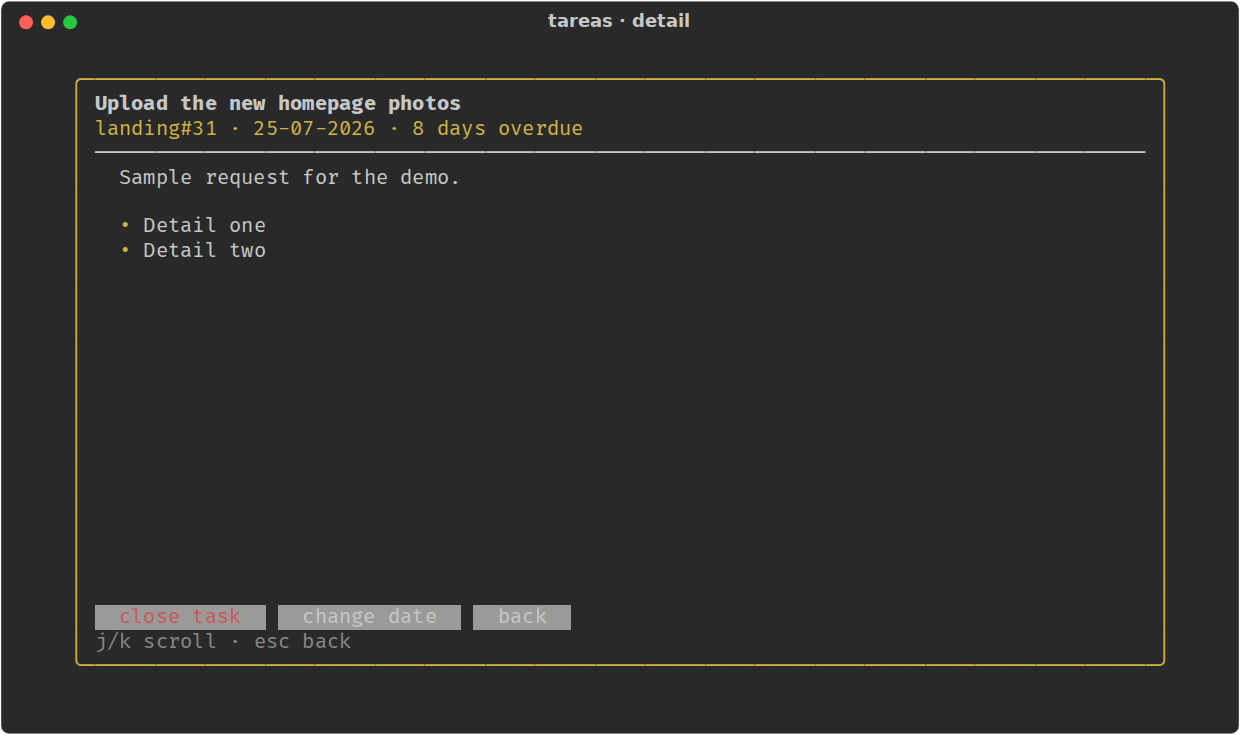
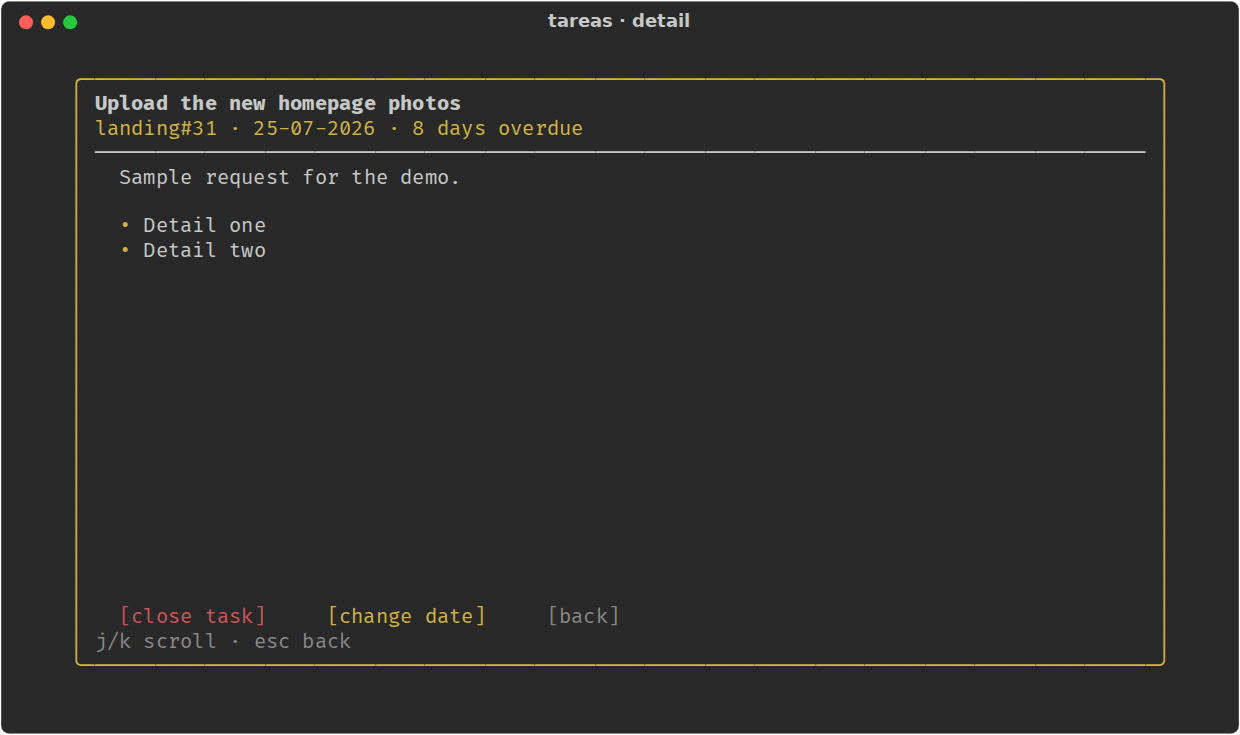
fix: modal contrast and layout — palette-derived styling (#5)
Los chips/botones de los 4 modales usaban background: ansi_bright_black (gris
medio hardcodeado), con contraste pobre en cualquier paleta. Ahora el texto va
en acento ANSI (yellow/red) sobre el fondo default, delimitado con corchetes en
vez de un relleno gris; foco/hover invierte ese mismo par (video inverso, como
fzf/lazygit), y cancel/back quedan dim. Los inputs suman un border-left literal
como marcador -no consume fila extra, a diferencia de border-bottom-. Mismo
sistema en los 4 modales (new-task, due-date, confirm, detail); la lista no se
tocó.

Changed region(s): [[0.0613, 0.8082, 0.4903, 0.868]]

diff --git a/src/tareas_tui/app.py b/src/tareas_tui/app.py
@@ -224,9 +224,9 @@ class DetalleScreen(DialogoModal):
             with VerticalScroll(id="det-cuerpo"):
                 yield Markdown(self.tarea.cuerpo or "_(no description)_")
             with Horizontal(classes="fila-botones"):
-                yield Button("close task", id="det-cerrar", classes="chip peligro")
-                yield Button("change date", id="det-fecha", classes="chip")
-                yield Button("back", id="det-volver", classes="chip")
+                yield Button("\\[close task]", id="det-cerrar", classes="chip peligro")
+                yield Button("\\[change date]", id="det-fecha", classes="chip")
+                yield Button("\\[back]", id="det-volver", classes="chip secundario")
             yield Static("j/k scroll · esc back", id="det-hint", classes="hint")
 
     def on_mount(self) -> None:
@@ -266,9 +266,9 @@ class FechaScreen(DialogoModal):
                     placeholder="YYYY-MM-DD",
                     id="fecha-input",
                 )
-                yield Button("save", id="fecha-guardar", classes="chip")
-                yield Button("clear", id="fecha-quitar", classes="chip")
-                yield Button("cancel", id="fecha-cancelar", classes="chip")
+                yield Button("\\[save]", id="fecha-guardar", classes="chip primario")
+                yield Button("\\[clear]", id="fecha-quitar", classes="chip peligro")
+                yield Button("\\[cancel]", id="fecha-cancelar", classes="chip secundario")
             yield Static("", id="fecha-error", classes="error-linea")
             yield Static("1-5 quick · enter save · esc cancel", id="fecha-hint", classes="hint")
 
@@ -306,7 +306,9 @@ class FechaScreen(DialogoModal):
         try:
             date.fromisoformat(texto)
         except ValueError:
-            self.query_one("#fecha-error", Static).update("invalid format, use YYYY-MM-DD")
+            error = self.query_one("#fecha-error", Static)
+            error.update("invalid format, use YYYY-MM-DD")
+            error.display = True
             return
         self.dismiss(texto)
 
@@ -335,7 +337,7 @@ class NuevaScreen(DialogoModal):
             yield Static("new task", classes="dlg-titulo")
             if self.repo_prefijado is not None:
                 yield BotonCabecera(
-                    f"repo: {self.repo_prefijado}", "cambiar-repo",
+                    f"\\[repo: {self.repo_prefijado}]", "cambiar-repo",
                     id="nueva-repo-fijo", classes="chip",
                 )
             yield Input(placeholder="filter repo…", id="nueva-filtro")
@@ -344,8 +346,8 @@ class NuevaScreen(DialogoModal):
             yield AtajosFecha(classes="fila-chips")
             with Horizontal(classes="fila-botones"):
                 yield InputFecha(placeholder="YYYY-MM-DD (optional)", id="nueva-fecha")
-                yield Button("create", id="nueva-crear", classes="chip")
-                yield Button("cancel", id="nueva-cancelar", classes="chip")
+                yield Button("\\[create]", id="nueva-crear", classes="chip primario")
+                yield Button("\\[cancel]", id="nueva-cancelar", classes="chip secundario")
             yield Static("", id="nueva-error", classes="error-linea")
             yield Static(
                 "1-5 quick date · enter next/create · esc cancel",
@@ -438,12 +440,14 @@ class NuevaScreen(DialogoModal):
         fecha = self.query_one("#nueva-fecha", Input).value.strip()
         if not self.repo_elegido:
             error.update("choose a repo from the list")
+            error.display = True
             filtro = self.query_one("#nueva-filtro", Input)
             if filtro.display:
                 filtro.focus()
             return
         if not titulo:
             error.update("title is required")
+            error.display = True
             self.query_one("#nueva-titulo", Input).focus()
             return
         if fecha:
@@ -451,6 +455,7 @@ class NuevaScreen(DialogoModal):
                 date.fromisoformat(fecha)
             except ValueError:
                 error.update("invalid date, use YYYY-MM-DD")
+                error.display = True
                 self.query_one("#nueva-fecha", Input).focus()
                 return
         self.dismiss({"repo": self.repo_elegido, "titulo": titulo, "fecha": fecha})
@@ -472,8 +477,8 @@ class ConfirmaScreen(DialogoModal):
         with Vertical(id="dlg-confirma", classes="dlg"):
             yield Static(self.pregunta, classes="dlg-titulo")
             with Horizontal(classes="fila-botones"):
-                yield Button("yes, close", id="ok", classes="chip peligro")
-                yield Button("cancel", id="no", classes="chip")
+                yield Button("\\[yes, close]", id="ok", classes="chip peligro")
+                yield Button("\\[cancel]", id="no", classes="chip secundario")
             yield Static("y close · n cancel", id="confirma-hint", classes="hint")
 
     def on_mount(self) -> None:
@@ -881,22 +886,26 @@ class TareasApp(App):
     .dlg-titulo { height: 1; color: $accent; text-style: bold; }
     .fila-chips { height: 1; width: 100%; }
     .fila-botones { height: 1; width: 100%; }
-    .error-linea { height: auto; color: $error; }
+    .error-linea { height: auto; color: $error; display: none; }
     .hint { height: 1; width: 100%; color: $foreground; text-style: dim; }
 
-    /* Botones de una fila: clickeables sin engordar la UI. */
-    /* El fondo va literal (color 8) y no por variable: las variables propias del theme
-       todavía no existen cuando se parsea App.CSS. Sobre el panel del modal (color 0)
-       queda un escalón visible, así que los botones se leen como botones. */
+    /* Botones de una fila: clickeables sin engordar la UI.
+       El color va literal (ansi_yellow/ansi_red/ansi_default) y no por variable: las
+       variables propias del theme todavía no existen cuando se parsea App.CSS. Sin
+       relleno gris: texto en acento sobre el fondo default, delimitado por los
+       corchetes del propio label (el borde de Button no cabe en height:1). En foco/
+       hover, "reverse" invierte fg/bg del par ya elegido -mismo truco que fzf/
+       lazygit-, así el contraste queda garantizado por construcción en cualquier
+       paleta ANSI decente. */
     .chip {
         height: 1; min-width: 0; width: auto; border: none;
-        padding: 0 1; margin: 0 1 0 0; background: ansi_bright_black; color: $foreground;
+        padding: 0 1; margin: 0 1 0 0; background: ansi_default; color: ansi_yellow;
         text-style: none;
     }
-    .chip:hover { background: $accent; color: $background; text-style: bold; }
-    .chip:focus { text-style: bold reverse; }
-    .peligro { color: $error; }
-    .peligro:hover { background: $error; color: $background; }
+    .chip:hover, .chip:focus { text-style: bold reverse; }
+    .primario { text-style: bold; }
+    .peligro { color: ansi_red; }
+    .secundario { color: ansi_default; text-style: dim; }
 
     #dlg-detalle { height: 90%; }
     #det-titulo { height: auto; max-height: 2; text-style: bold; }
@@ -909,8 +918,14 @@ class TareasApp(App):
     #nueva-repos {
         height: auto; max-height: 6; border: none; background: $background;
     }
+    /* border-left literal (marcador de "esto es un input"): a diferencia de
+       border-bottom, no consume una fila extra con height:1 (verificado). */
     #nueva-filtro, #nueva-titulo, #nueva-fecha, #fecha-input {
-        height: 1; border: none; padding: 0 1; background: $background; width: 1fr;
+        height: 1; border: none; border-left: solid ansi_default; padding: 0 1;
+        background: $background; width: 1fr;
+    }
+    #nueva-filtro:focus, #nueva-titulo:focus, #nueva-fecha:focus, #fecha-input:focus {
+        border-left: solid ansi_yellow;
     }
     #nueva-fecha, #fecha-input { max-width: 24; }
     """
